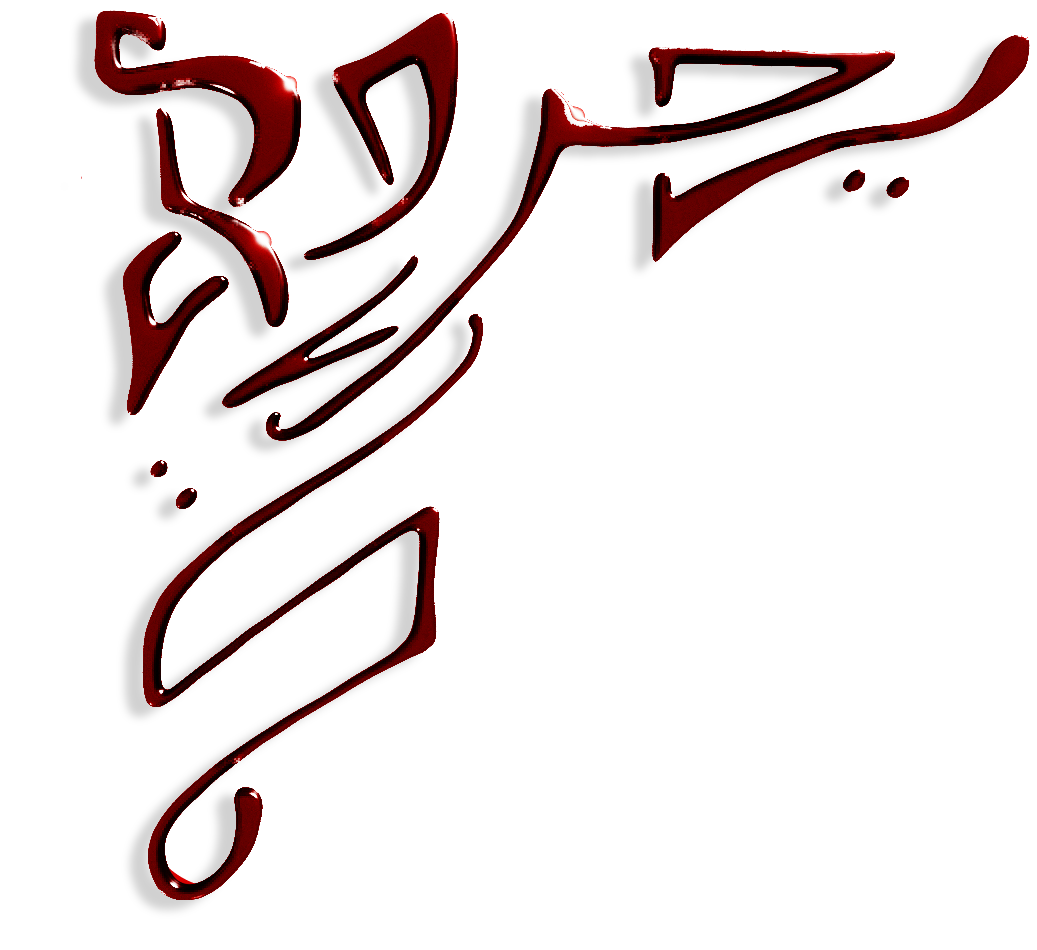
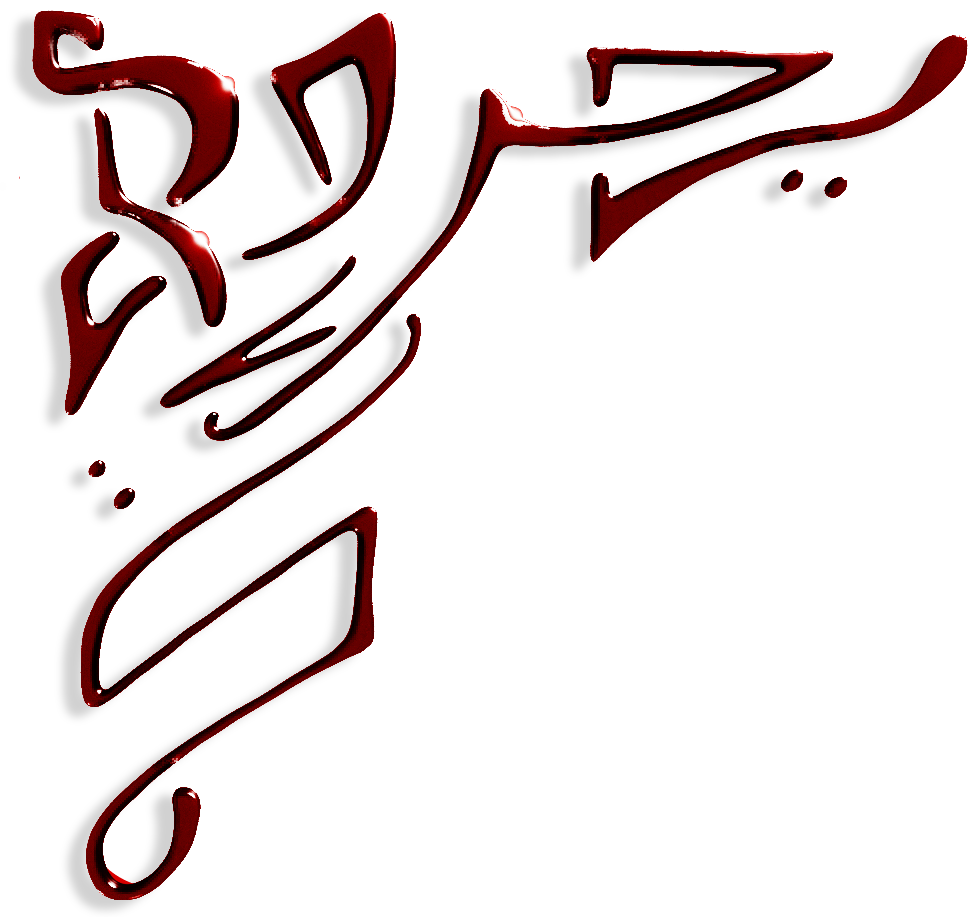
added animation to liquid chrome img

diff --git a/client/src/components/custom.css b/client/src/components/custom.css
@@ -85,16 +85,24 @@
 }
 
 .eyeCandy{
-    margin: 15px;
+   
     top: 0;
-    left: 0;
+    left: 0px;
+    float: left;
 }
 
 .corner {
-    margin: 15px;
-    float: left;
-    top: 0;
-    left: 0;
+    left: -30px;
+    -webkit-animation: mover 2s infinite  alternate;
+    animation: mover 2s infinite  alternate;
+}
+@-webkit-keyframes mover {
+    0% { transform: translateY(0); }
+    100% { transform: translateY(-7px); }
+}
+@keyframes mover {
+    0% { transform: translateY(0); }
+    100% { transform: translateY(-7px); }
 }
 
 .locationContent {
